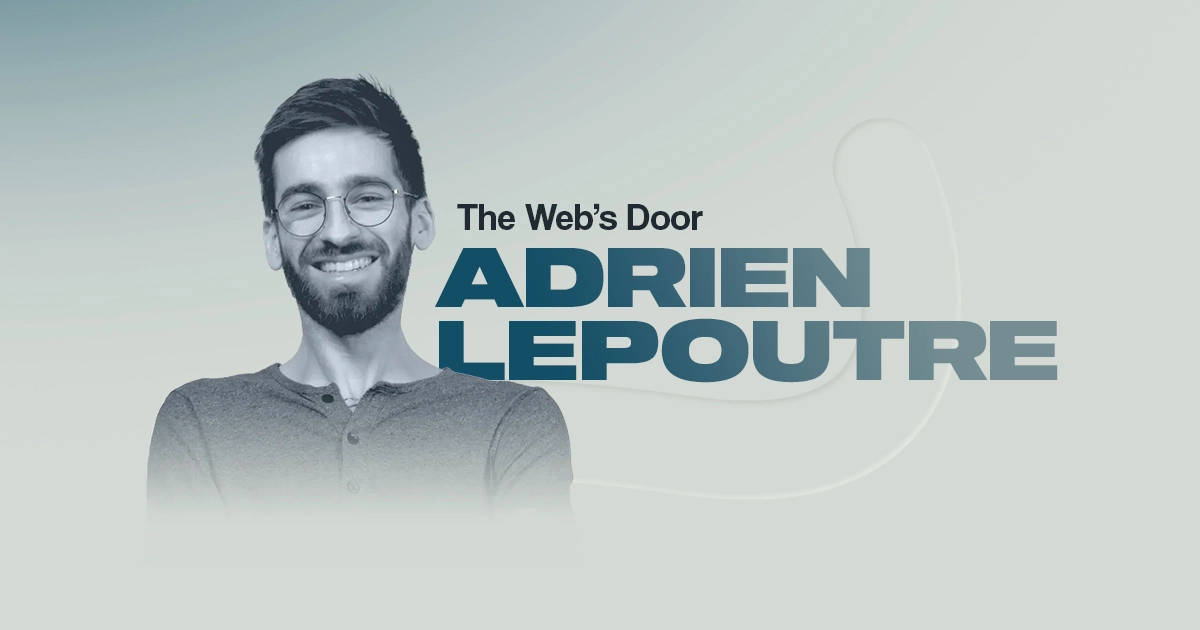
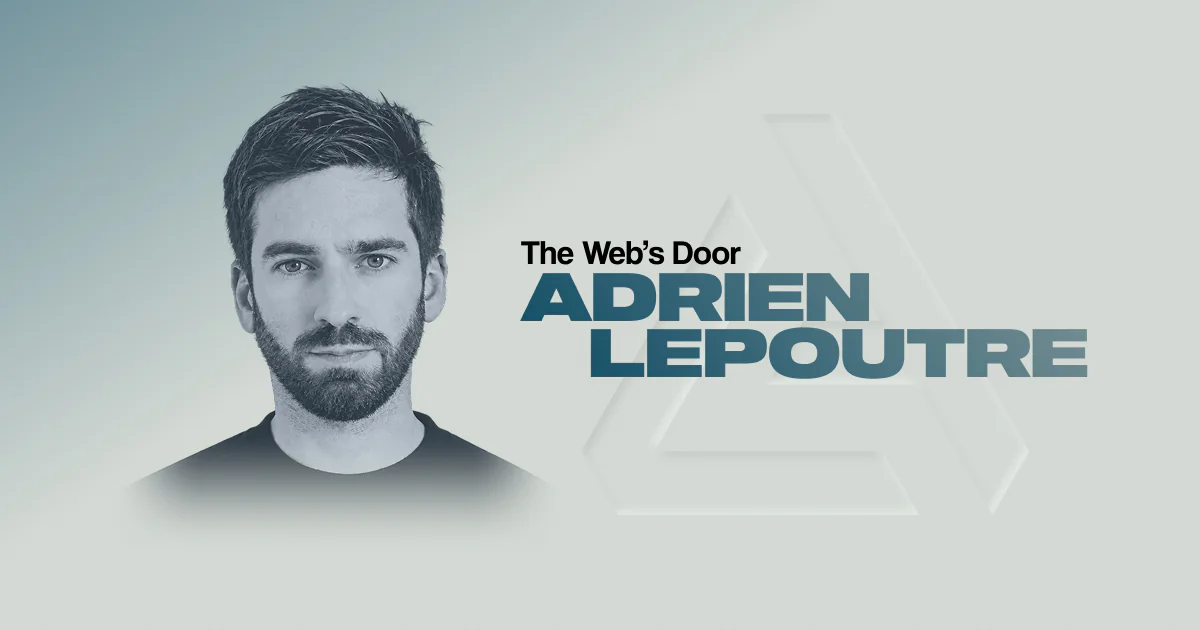
fix: update my face

Changed region(s): [[0.1233, 0.1206, 0.925, 0.8143], [0.0, 0.1206, 0.1233, 0.6333]]

diff --git a/src/sections/Hero/BackgroundShape.tsx b/src/sections/Hero/BackgroundShape.tsx
@@ -3,17 +3,19 @@ import styles from './Hero.module.scss';
 const BackgroundShape = () => (
   <span className={styles.shapeContainer}>
     <svg
-      width="1327"
-      height="724"
-      viewBox="0 0 1327 724"
+      width="635"
+      height="568"
+      viewBox="0 0 635 568"
       fill="none"
       xmlns="http://www.w3.org/2000/svg"
     >
       <g filter="url(#filter0_ii_12_28)">
         <path
-          fillRule="evenodd"
-          clipRule="evenodd"
-          d="M1146.64 8.19182C1192.65 -11.3345 1245.78 10.1346 1265.31 56.1444C1310.46 162.528 1353.95 334.002 1304.17 477.776C1277.6 554.511 1224.53 622.219 1137.14 662.636C1052.75 701.666 944.757 711.409 812.732 692.595C573.503 658.503 407.628 656.989 299.173 667.537C244.907 672.815 206.406 680.981 180.961 688.867C158.953 695.688 151.189 700.917 151.082 700.764C151.075 700.754 151.099 700.723 151.152 700.669C114.745 733.572 58.5323 731.481 24.6836 695.616C-9.62224 659.267 -7.96545 601.989 28.3841 567.683C53.7704 543.724 90.0965 527.534 127.38 515.98C167.326 503.6 218.406 493.539 281.652 487.387C408.222 475.077 589.097 477.897 838.268 513.405C950.443 529.391 1019.69 517.534 1061.16 498.355C1099.64 480.562 1121.05 453.451 1133.13 418.549C1160.66 339.047 1138.21 219.972 1098.69 126.855C1079.17 80.8456 1100.63 27.7181 1146.64 8.19182Z"
+          d="M103.92 477.97L265.47 198.16L213.51 108.16L0 477.97L51.96 567.97H478.98L427.02 477.97H103.92Z"
+          className={styles.shape}
+        />
+        <path
+          d="M580.07 383.06L528.11 293.06L358.91 0H254.98L424.19 293.06H314.6L262.64 383.06H476.15L582.9 567.97L634.86 477.97L580.07 383.06Z"
           className={styles.shape}
         />
       </g>
@@ -21,9 +23,9 @@ const BackgroundShape = () => (
         <filter
           id="filter0_ii_12_28"
           x="-5"
-          y="-4.02344"
-          width="1336.31"
-          height="733.023"
+          y="-5"
+          width="644.86"
+          height="577.97"
           filterUnits="userSpaceOnUse"
           colorInterpolationFilters="sRGB"
         >

diff --git a/src/sections/Hero/Hero.module.scss b/src/sections/Hero/Hero.module.scss
@@ -39,7 +39,12 @@ section.section {
       top: 5%;
       bottom: 25%;
       left: 0;
-      right: 10%;
+      right: 0;
+    }
+    @include min('largeDesktop') {
+      top: 0;
+      bottom: 30%;
+      left: 25%;
     }
     svg {
       display: block;
@@ -65,15 +70,18 @@ section.section {
     z-index: 2;
     background-image: url('/images/me.webp');
     background-position: 50% 30%;
-    background-size: auto 70%;
+    background-size: auto 60%;
     background-repeat: no-repeat;
 
+    @include min('tablet') {
+      background-size: auto 70%;
+    }
     @include min('desktop') {
       background-position: 50% 50%;
       background-size: auto 80%;
     }
     @include min('largeDesktop') {
-      background-position: 15% 70%;
+      background-position: 8% 70%;
     }
     &::before {
       content: '';
